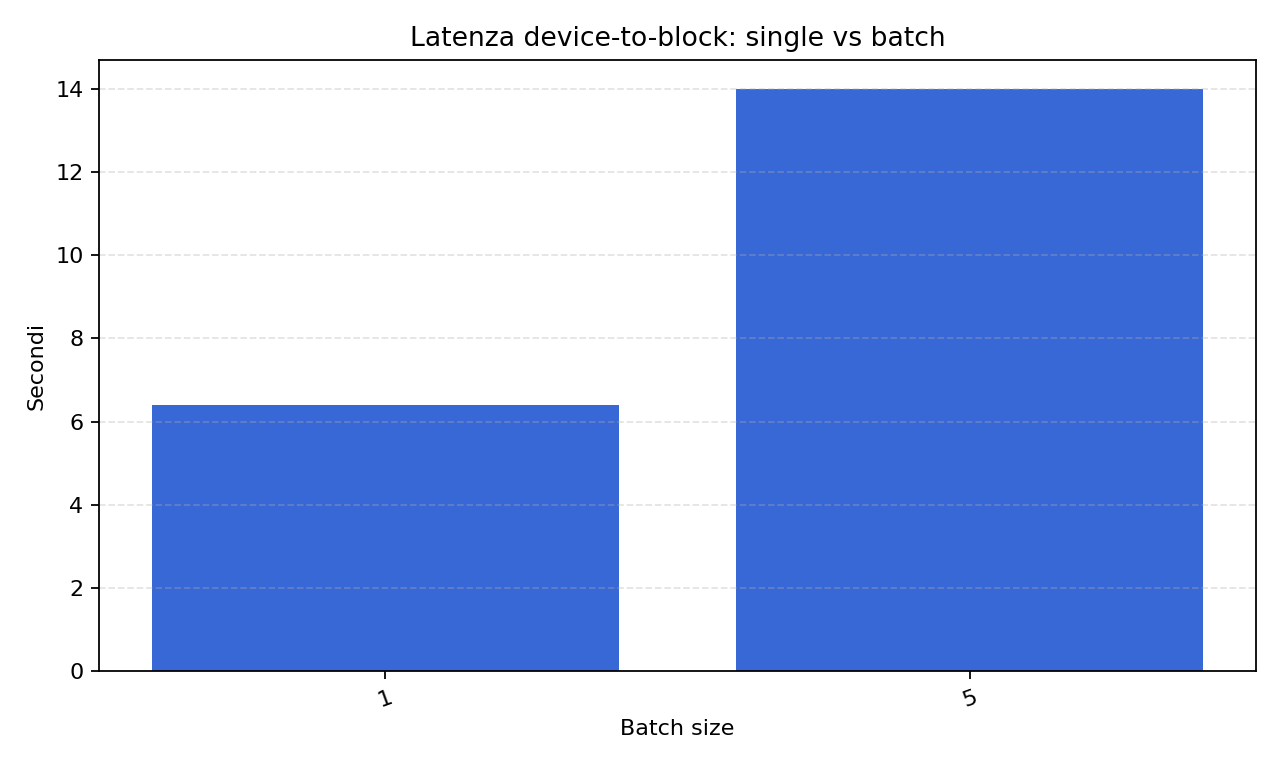
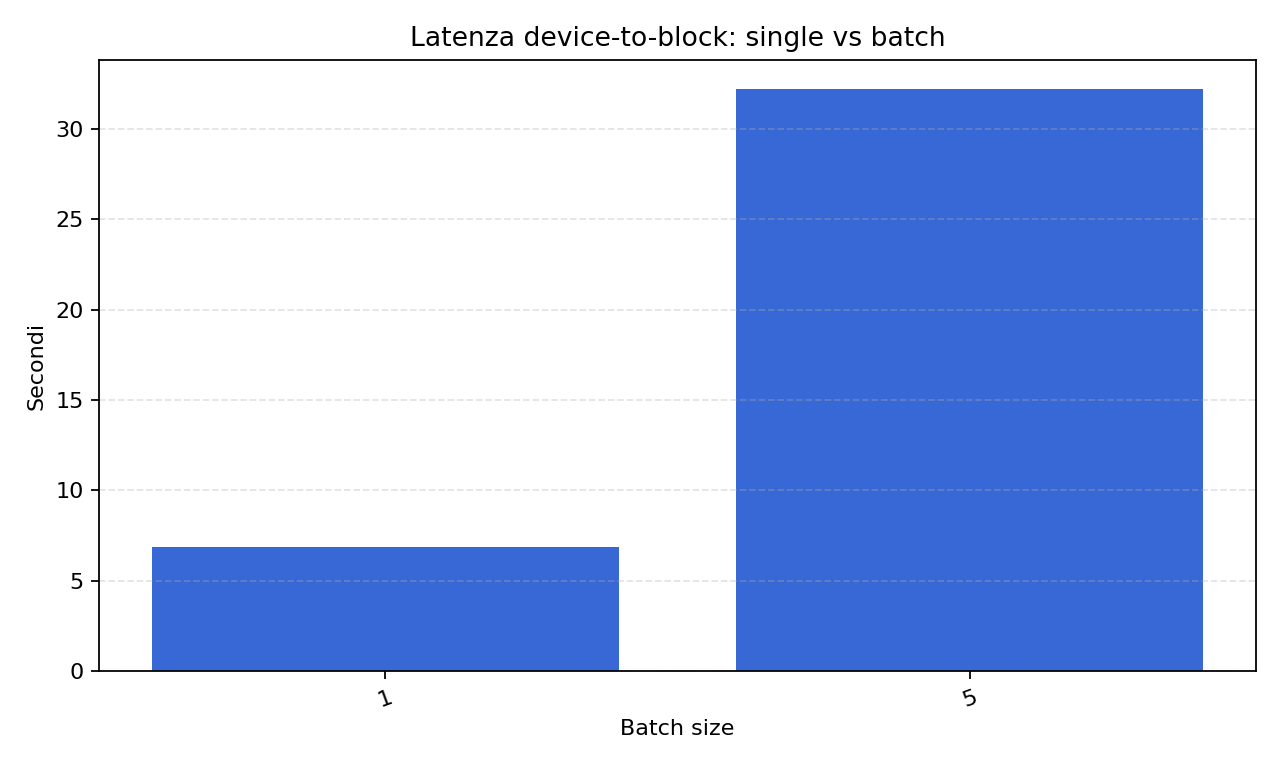
Aggiorna risultati sperimentali per batch-vs-single

diff --git a/experiments/scripts/build-batch-vs-single-csv.py b/experiments/scripts/build-batch-vs-single-csv.py
@@ -22,6 +22,9 @@ BATCH_ESP32_LOG = BATCH_LOG_DIR / "b5-batch-esp32.log"
 BATCH_MIDDLEWARE_LOG = BATCH_LOG_DIR / "b5-batch-middleware.log"
 
 SEND_INTERVAL_SECONDS = "10"
+MEASUREMENT_RECORDED_TOPIC = (
[1 lines of base64/hex data omitted]
+)
 
 HEADER = [
     "experiment",
@@ -134,13 +137,26 @@ def build_row(
     fee_wei = gas_used * effective_gas_price
     calldata_bytes = get_calldata_bytes(tx.get("input"))
     logs_count = len(receipt.get("logs") or [])
+    measurement_latencies = extract_measurement_latencies(receipt)
     device_to_block_latency = ""
     notes = ""
 
-    if device_timestamp is not None and block_timestamp is not None:
+    if measurement_latencies:
+        device_to_block_latency = format_decimal(
+            sum(measurement_latencies) / len(measurement_latencies)
+        )
+        if len(measurement_latencies) > 1:
+            notes = (
+                "latenza device-to-block media delle misure incluse nel batch, "
+                "ricavata dagli eventi on-chain"
+            )
+    elif device_timestamp is not None and block_timestamp is not None:
         device_to_block_latency = str(block_timestamp - device_timestamp)
     else:
-        notes = "deviceTimestamp non disponibile nei log ESP32 per calcolare deviceToBlockLatencySeconds"
+        notes = (
+            "timestamp non disponibile negli eventi on-chain o nei log ESP32 "
+            "per calcolare deviceToBlockLatencySeconds"
+        )
 
     return {
         "experiment": "batch-vs-single",
@@ -326,6 +342,35 @@ def get_calldata_bytes(input_data):
     if not isinstance(input_data, str) or not input_data.startswith("0x"):
         return 0
     return max((len(input_data) - 2) // 2, 0)
+
+
+def extract_measurement_latencies(receipt):
+    latencies = []
+
+    for log in receipt.get("logs") or []:
+        topics = log.get("topics") or []
+        if not topics or str(topics[0]).lower() != MEASUREMENT_RECORDED_TOPIC:
+            continue
+
+        data = log.get("data")
+        if not isinstance(data, str) or not data.startswith("0x"):
+            continue
+
+        encoded = data[2:]
+        if len(encoded) < 5 * 64:
+            continue
+
+        device_timestamp = int(encoded[64:128], 16)
+        blockchain_timestamp = int(encoded[128:192], 16)
+        latencies.append(blockchain_timestamp - device_timestamp)
+
+    return latencies
+
+
+def format_decimal(value):
+    if float(value).is_integer():
+        return str(int(value))
+    return f"{value:.10f}".rstrip("0").rstrip(".")
 
 
 def format_ether(wei):

diff --git a/experiments/results/summary.md b/experiments/results/summary.md
@@ -8,8 +8,8 @@ I valori seguenti sono calcolati escludendo le righe con `isInitializationTx=tru
 | baseline-by-network | sepolia | feeEth | 9 | 0.000977 | 0.000536 | 0.00159 |
 | baseline-by-network | anvil | gasUsed | 9 | 157265.33 | 157256.00 | 157268.00 |
 | baseline-by-network | sepolia | gasUsed | 9 | 157268.00 | 157268.00 | 157268.00 |
-| batch-vs-single | 1 | deviceToBlockLatencySeconds | 5 | 6.4 | 2 | 15 |
-| batch-vs-single | 5 | deviceToBlockLatencySeconds | 2 | 14 | 9 | 19 |
+| batch-vs-single | 1 | deviceToBlockLatencySeconds | 7 | 6.857143 | 2 | 15 |
+| batch-vs-single | 5 | deviceToBlockLatencySeconds | 3 | 32.2 | 27 | 39 |
 | batch-vs-single | 1 | feeEthPerMeasurement | 7 | 0.00017 | 0.000161 | 0.000178 |
 | batch-vs-single | 5 | feeEthPerMeasurement | 3 | 0.000141 | 0.000133 | 0.000146 |
 | batch-vs-single | 1 | gasPerMeasurement | 7 | 157334.86 | 157316.00 | 157340.00 |

diff --git a/experiments/README.md b/experiments/README.md
@@ -157,7 +157,7 @@ python3 experiments/scripts/build-batch-vs-single-csv.py
 
 Questo script legge gli hash dai log, recupera receipt, transazioni e timestamp dei blocchi tramite l'RPC Sepolia configurato in `middleware/.env.sepolia`, salva i JSON raw in `experiments/raw/batch-vs-single/sepolia/` e aggiorna `experiments/data/performance-batch-vs-single.csv`.
 
-Nel dataset batch-vs-single la latenza disponibile e' `deviceToBlockLatencySeconds`. Per le transazioni batch viene usato il timestamp dell'ultima misura inclusa nel batch, quando disponibile nei log ESP32.
+Nel dataset batch-vs-single la latenza disponibile e' `deviceToBlockLatencySeconds`. Per le transazioni batch il valore rappresenta la latenza media di tutte le misure incluse nella transazione, calcolata dai `deviceTimestamp` e dai `blockchainTimestamp` degli eventi `MeasurementRecorded` presenti nella receipt.
 
 ### 5. Generazione grafici e summary
 